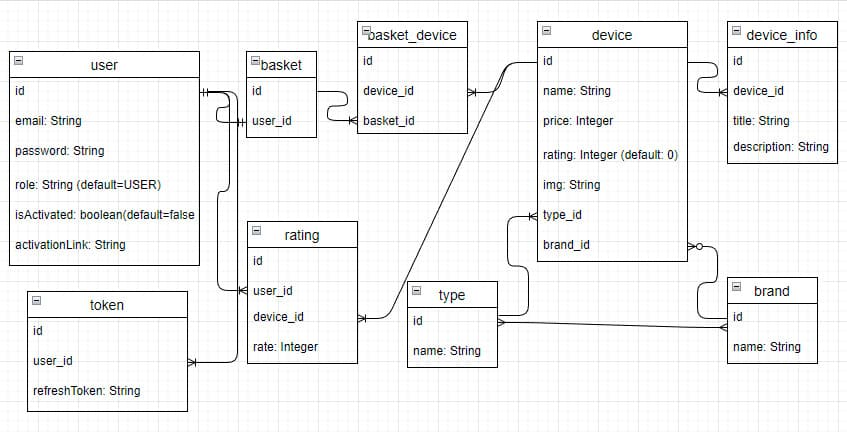
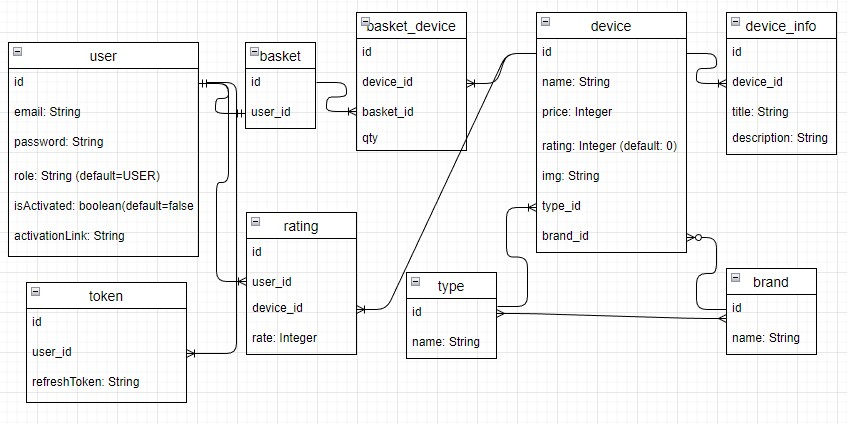
add price to Basket page

Changed region(s): [[0.0, 0.0, 1.0, 0.9505], [0.0307, 0.8892, 0.2149, 0.9811], [0.4911, 0.4599, 0.5218, 0.5825]]

diff --git a/client/src/pages/Basket.js b/client/src/pages/Basket.js
@@ -10,18 +10,21 @@ import { toast } from 'react-toastify';
 const Basket = observer(() => {
 	const {user} = useContext(Context)	
 	const [devices, setDevices] = useState([]);
+	const [total, setTotal] = useState(0);
 	const [isDataChanged, setIsDataChanged] = useState(false);
 
 	useEffect(() => {
 		fetchBasket().then(data => {
 	
 			const arrDevices = [...data]
+			setTotal(0)
 			setDevices([]);
 
 			arrDevices.map((device, index) => {
 				fetchOneDevice(device.deviceId).then(dataDevice => {
-					arrDevices[index] = {...arrDevices[index], 'name': dataDevice['name'], 'img': dataDevice['img']}
+					arrDevices[index] = {...arrDevices[index], 'name': dataDevice['name'], 'img': dataDevice['img'], 'price': dataDevice['price']}
 					setDevices(arr => [ ...arr, arrDevices[index] ]);
+					setTotal(prev =>  prev + dataDevice['price'] * arrDevices[index]['qty'])
 				})
 			})
 		})
@@ -54,11 +57,19 @@ const Basket = observer(() => {
 						<Col xs={1} className="d-flex align-self-center">
 							{device.qty}
 						</Col>
-						<Col xs={2} className="d-flex align-self-center">
-							<Button variant={"outline-dark"} onClick={() => DeleteFromCart(device.id)}>Delete</Button>
+						<Col xs={1} className="d-flex align-self-center">
+							${device.price * device.qty}
+						</Col>
+						<Col xs={1} className="d-flex align-self-center">
+							<Button variant="outline-danger" onClick={() => DeleteFromCart(device.id)}>X</Button>
 						</Col>
 					</Row>
 				)}
+				<Row className="d-flex" style={{padding:10, fontWeight: 'bold'}}>
+					<Col xs={9} className="d-flex"></Col>
+					<Col xs={1} className="d-flex align-self-center">Total:</Col>
+					<Col xs={1} className="d-flex align-self-center">${total}</Col>
+				</Row>
 			</div>
 		</Container>
 	);

diff --git a/client/src/components/NavBar.js b/client/src/components/NavBar.js
@@ -25,23 +25,23 @@ const NavBar = observer(() => {
 					{!user.isAuth ?
 						<Button variant={"outline-light"} onClick={() => history.push(LOGIN_ROUTE)}>Autorization</Button>
 					: <>
-						{user.isAdmin && 
+						{user.isAdmin ? 
 							<Button 
 								variant={"outline-light"} 
 								onClick={() => history.push(ADMIN_ROUTE)}
 							>
 								Admin panel
 							</Button>
+							:
+							<Button 
+								variant={"outline"}
+								style={{position: "relative"}}
+								onClick={() => history.push(BASKET_ROUTE)}
+							>
+								<Image width={28} height={28} src={shoppingCart} />
+								<span style={{color: "#0d6efd", position: "absolute", top: "-9px", left: "23px"}}>{user.qtyInBasket}</span>
+							</Button>
 						}
-
-						<Button 
-							variant={"outline"}
-							style={{position: "relative"}}
-							onClick={() => history.push(BASKET_ROUTE)}
-						>
-							<Image width={28} height={28} src={shoppingCart} />
-							<span style={{color: "#0d6efd", position: "absolute", top: "-9px", left: "23px"}}>{user.qtyInBasket}</span>
-						</Button>
 
 						<Button 
 							variant={"outline-light"}

diff --git a/client/src/pages/Admin.js b/client/src/pages/Admin.js
@@ -1,4 +1,4 @@
-/*import React, {useState} from 'react';
+import React, {useState} from 'react';
 import { Button, Container } from 'react-bootstrap';
 import CreateType from '../components/modals/CreateType';
 import CreateBrand from '../components/modals/CreateBrand';
@@ -42,4 +42,4 @@ const Admin = () => {
 	);
 };
 
-export default Admin;*/
+export default Admin;

diff --git a/client/src/components/AppRouter.js b/client/src/components/AppRouter.js
@@ -13,8 +13,11 @@ const AppRouter = () => {
 		if (localStorage.getItem('token')) {
 			user.checkAuth()
 				.then(res => {
+					console.log(user);
 					if (user.isAuth) {
 						if (user.isAdmin){
+							console.log('! Admin !');
+							console.log(adminRoutes);
 							setRoutes(adminRoutes)
 						} else {
 							setRoutes(userRoutes)

diff --git a/client/src/routes.js b/client/src/routes.js
@@ -20,7 +20,7 @@ export const userRoutes = [
 	{
 		path: BASKET_ROUTE,
 		Component: Basket
-	}
+	},
 ]
 
 export const adminRoutes = [
@@ -28,10 +28,6 @@ export const adminRoutes = [
 		path: ADMIN_ROUTE,
 		Component: Admin
 	},
-	{
-		path: BASKET_ROUTE,
-		Component: Basket
-	}
 ]
 
 export const publicRoutes = [
